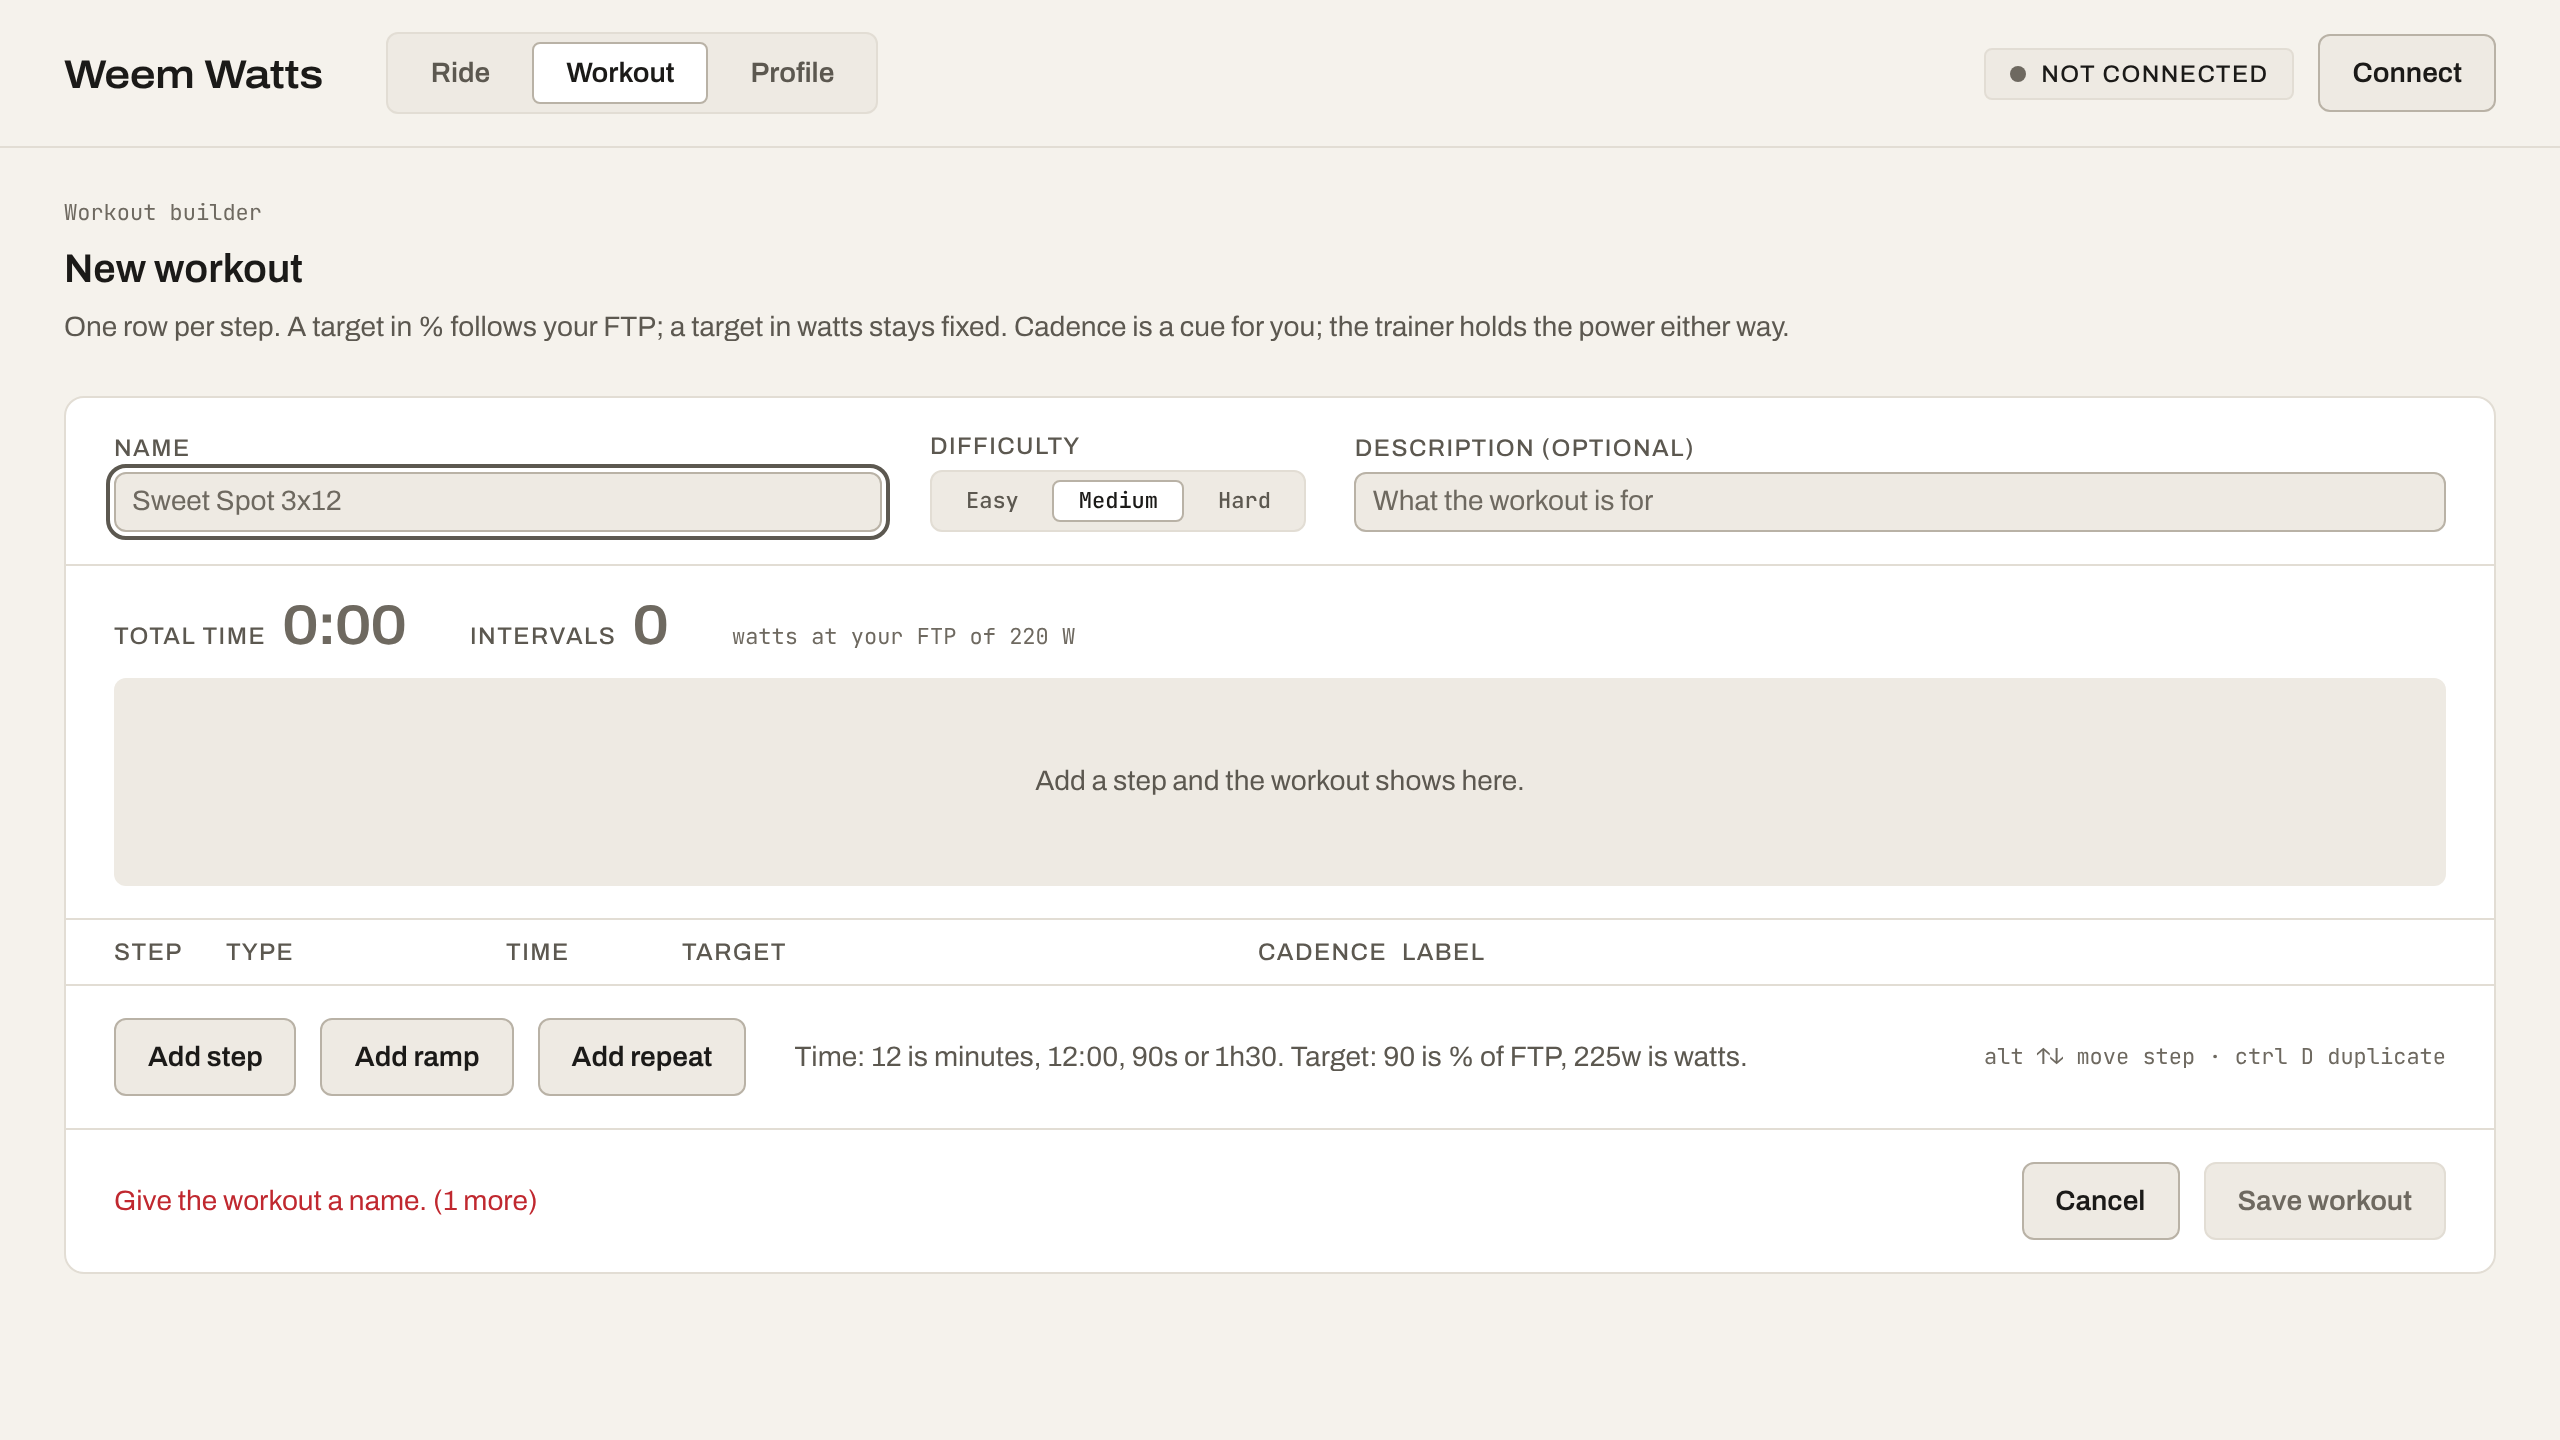
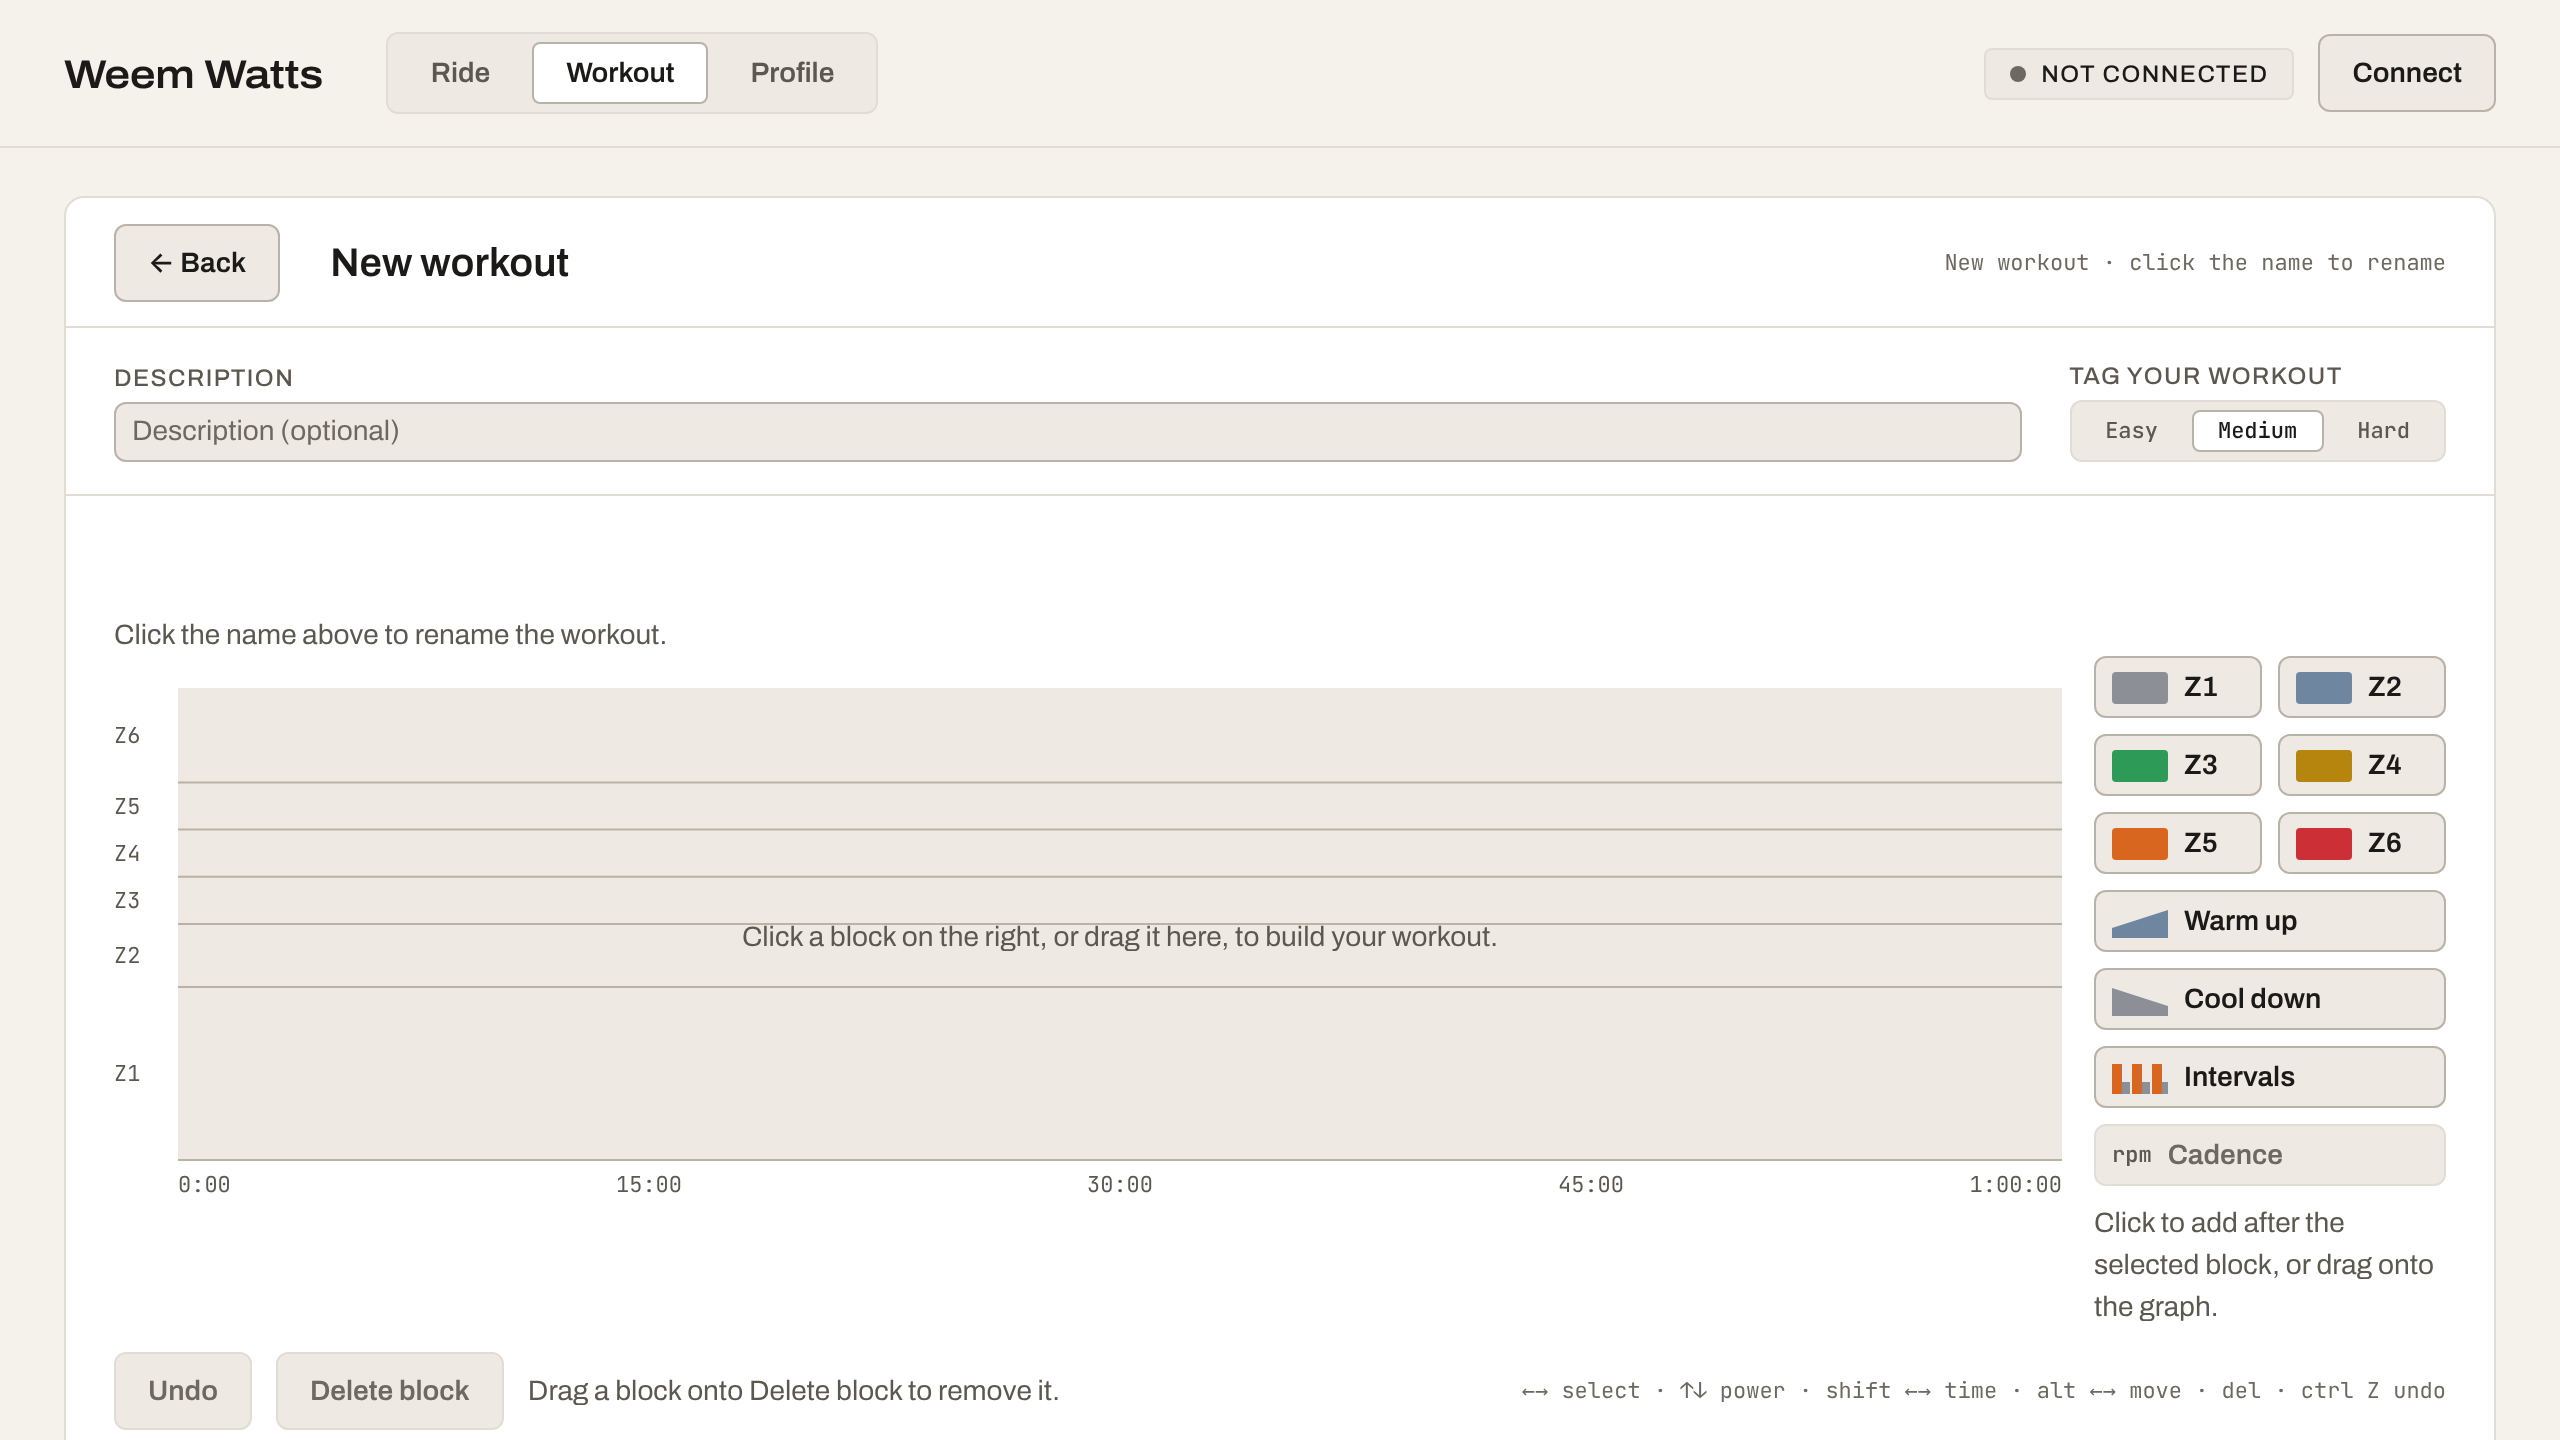
docs: Zwift-style builder decisions, README steps, screenshots
Claude-Session: https://claude.ai/code/session_01Fy45Q5RpT8Z5DRRNkBTc4N

diff --git a/docs/workout-builder.md b/docs/workout-builder.md
@@ -2,7 +2,64 @@
 
 Built Nov 20, 2026, ahead of the v3.2 ride test at Nate's request. Research: `docs/workout-builder-research.md`. Reference screenshots: `docs/builder-screenshots/` (interaction ideas only; the look is DESIGN.md).
 
-## What was built
+## Second pass, Nov 20, 2026: rebuilt after Zwift's editor
+
+Nate asked for the builder to work and look like Zwift's workout editor, in this app's branding. The guide he supplied ("Zwift: how create a new workout works, click by click") is the reference. The step list from the first pass is kept as an optional view of the same data.
+
+### What matches Zwift
+
+| Zwift | Here |
+| --- | --- |
+| + CREATE WORKOUT leads the Custom list | New workout is the first row of the step 2 list, and the first button under Your files |
+| Copy on any workout's overview | Edit a copy in the selected workout's detail card |
+| One screen, no steps or tabs | One panel: header, details, graph and palette, bottom bar, Save |
+| Back arrow top left; leaving discards | ← Back top left; asks once more if there is unsaved work |
+| Title "New Workout", click it to rename, Enter | Same |
+| Description left, tags right | Description left, the difficulty tag (Easy, Medium, Hard) right |
+| Graph with Z1 to Z6 lines and a time axis that starts at 1:00 and grows | Same |
+| Palette on the right: Z1 to Z6, warm up, cool down, intervals, cadence | Same, with Zwift's defaults: 5 min at 50 / 65 / 81 / 95 / 110 / 125%, 10 min ramps, intervals 4 x 1 min on and off |
+| Drag a tile onto the graph; the block is selected | Same. A click on the tile also adds it, after the selected block |
+| Number fields pop up just above the selected block | Same |
+| Width is time, height is power, color follows the zone | Same |
+| Intervals: − / + count, Duration One / Power One, Duration Two / Power Two | Same |
+| Drag the top edge for power, the side edge for time | Same. Time snaps to 15 s (5 s on short workouts), power to 1% |
+| Cadence tile dropped on a block gives a "Cadence" field with an × | Same, default 90 rpm |
+| Delete key, or drag the block to the trash | Same (Delete block is the trash) |
+| DISPLAY: watts or % FTP | Same |
+| Live WORKOUT DURATION | Same |
+| First-run hints on an empty editor | Plain text hints in the same three places |
+| Save | Save |
+
+### Judgment calls and what does not apply
+
+| Call | Why |
+| --- | --- |
+| The look is DESIGN.md, not Zwift's | CLAUDE.md: only DESIGN.md tokens. Zone colors are this app's zone tokens; Save is Cobalt; no orange, no dark header, no hand-drawn notes. |
+| **Free ride and text event tiles are left out** | Both change what happens during a ride: free ride switches ERG off and on mid-workout, and text events need a place on the Ride tab. That is the riskiest code in the app and it has not been ride-tested yet. The first research marked both as M. |
+| Undo added (Zwift has none) | The guide asked for it. Every change can be taken back, up to 100 steps. |
+| A repeat can hold 3 or more steps (Zwift: 2) | The guide asked for it. Add step in the repeat's fields. |
+| Blocks can be dragged to reorder; ← → buttons and Copy sit with the fields | The guide could not confirm reordering in Zwift. Without it a misplaced block means delete and rebuild. |
+| A drop lands where it is dropped; a click adds after the selected block | Not confirmed in Zwift either way. |
+| Author and custom tags are left out | No accounts, and the picker filters on difficulty only. |
+| Stress Points and XP are left out | TSS is still cut (v3.2). |
+| Display unit: a bare number takes the unit on display; a target keeps the unit it was typed in | Zwift saves typed watts as %. This app keeps both, so a watts target stays fixed when FTP changes. |
+| A new workout is named "New workout" until renamed | As in Zwift. Save works without a rename. |
+| The step list stays, closed by default, behind a Step list button | It is the typed, always-visible view the guide's own table recommends, it holds per-step labels, and it shows which field is wrong. It opens by itself when a field has a bad value. |
+| The fields sit in a band above the graph, lined up with the block | Floating them over the blocks would cover the neighbors. The band keeps its height so the graph does not jump. |
+| Route is not part of the workout | As in Zwift, and as in v3.2: course in step 1, workout in step 2. |
+| Save returns to step 2 with the workout selected | The guide's pick; step 2's detail card is this app's "overview". |
+| Keyboard on blocks (arrows, Shift, Alt, Delete, Ctrl + D, Ctrl + Z) | Zwift is mouse-first; this app's rule is that every action works by keyboard. |
+| No drag library | Pointer events only. No new dependency. |
+
+### Checks added
+
+- Built the 3 x 12 workout with tiles and the pop-up fields: 1:09:00, 8 intervals.
+- Dragged a tile to a spot, a top edge, a right edge, a block to a new place and a block onto Delete block. Undo restored each.
+- Display toggle: 90% shows as 198 W at FTP 220; a bare 220 typed in Watts is 220 W.
+- A 5,000 W target and junk in a time field are refused and the field goes back.
+- Every earlier check was run again on this build (keyboard build through the step list, break-it, ride on a flat road and on a course, FIT, recovery, widths 1024 to 1920, contrast, reduced motion).
+
+## First pass: what was built
 
 Option S from the research: a step-list editor, not a drag canvas.
 

diff --git a/README.md b/README.md
@@ -61,15 +61,21 @@ Built-ins: Endurance 60, Sweet Spot 3x12, VO2 5x3, a Ramp FTP test, and the ZWO 
 
 ### Build a workout
 
-Press **New workout** (step 2 of the Workout tab, or Profile), or open any workout and press **Edit a copy** to start from it.
+Press **New workout** (first in the list in step 2 of the Workout tab, or on Profile), or open any workout and press **Edit a copy** to start from it. The builder works like Zwift's editor.
 
-- One row per step: **Steady** or **Ramp**, a time, a target, an optional cadence and label. **Add repeat** makes a block of steps that runs several times.
-- Time: `12` is minutes; `12:00`, `90s` and `1h30` also work. Target: `90` is % of FTP and follows your FTP; `225w` is watts and stays fixed. Each row shows what the target comes to at your current FTP.
-- Reorder with ↑ ↓, **Copy** and **Delete** on each row. Keys: **Alt + ↑ / ↓** moves the row, **Ctrl + D** duplicates it.
-- The strip and total time update as you type. Pick a difficulty so the filters find it; the Length filter works on its own.
-- **Save** takes you back to step 2 with the workout selected. An unsaved draft survives a reload.
-- **Cadence** is a cue for you. The Ride tab shows it in the workout row and the Cadence tile ("target 90 rpm"); the trainer holds the power either way. Imported ZWO files keep their cadence targets.
-- Limits are the same as for imported files: 6 hours, 2,000 intervals, 500% or 2,500 W.
+1. **Name it.** Click the title, type, press Enter.
+2. **Add blocks.** Click a tile on the right (Z1 to Z6, Warm up, Cool down, Intervals) to add it after the selected block, or drag the tile to a spot on the graph.
+3. **Set time and power.** Click a block and its fields show right above it. Type a time (`12` is minutes; `12:00`, `90s`) and a power. Or drag the block's top edge for power and its right edge for time.
+4. **Intervals** have a − / + repeat count and Duration One / Power One, Duration Two / Power Two. **Add step** gives a repeat a third step or more.
+5. **Cadence.** Select a block and click the Cadence tile (or drag it onto a block). The × removes it.
+6. **Move and delete.** Drag a block sideways to move it, or onto **Delete block** to remove it. **Undo** (Ctrl + Z) takes back any change.
+7. **Save.** You land back on step 2 with the workout selected.
+
+- **Display** switches the power fields between % FTP and watts. A bare number takes the unit on display; `225w` or `90%` always wins. A % target follows your FTP, a watts target stays fixed.
+- Keys on a block: ← → select, ↑ ↓ power, Shift + ← → time, Alt + ← → move, Delete, Ctrl + D duplicate.
+- **Step list** opens the same workout as typed rows, with a label per step.
+- An unsaved draft survives a reload. Limits are the same as for imported files: 6 hours, 2,000 intervals, 500% or 2,500 W.
+- **Cadence** is a cue for you. The Ride tab shows it in the workout row and the Cadence tile; the trainer holds the power either way.
 - Custom workouts live in this browser only. Clearing site data deletes them; there is no export yet.
 
 Details and decisions: `docs/workout-builder.md`.

diff --git a/Weem Watts App Scope.md b/Weem Watts App Scope.md
@@ -108,12 +108,12 @@ Since Nov 20, 2026 a workout can run on a course, so the race plan becomes a wor
 
 ### Workout builder (built Nov 20, 2026; ride test pending)
 
-Moved out of "Later" on Nov 20, 2026 at Nate's request, ahead of the v3.2 ride test. A step-list editor with cadence cues; decisions and cuts are in `docs/workout-builder.md`.
+Moved out of "Later" on Nov 20, 2026 at Nate's request, ahead of the v3.2 ride test. Laid out after Zwift's workout editor (block palette, a graph to click and drag on, fields above the selected block), with the step list as a second view and cadence cues; decisions and cuts are in `docs/workout-builder.md`.
 
 - Build a workout from nothing, or from a copy of any workout: steady, ramp and repeat steps, time, target in % FTP or watts, cadence cue, label, name, difficulty
 - Saved in the browser as the app's own step list; listed in step 2 of the Workout tab and under "Your files" on the Profile tab
 - Cadence is a cue for the rider (workout row and Cadence tile); ZWO import now reads it. The trainer never gets it
-- **Cut:** ZWO export, free-ride steps, timed text cues, TSS / IF, text syntax, drag graph
+- **Cut:** ZWO export, free-ride blocks, text events, TSS / IF, text syntax
 - **Done when:** build a workout by keyboard, ride it on the Kickr with ERG changing at each step, and see one lap per interval in the FIT
 
 ### Later: Strava auto-upload
